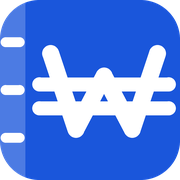
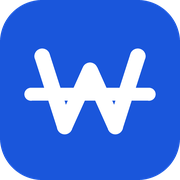
로고 마크를 한 줄짜리 ₩ 로 단순화
상단바 로고(22px)에서 마크가 파란 사각형 위의 흰 얼룩으로 보였다. 원인은
가로줄 두 개였다. 64px 기준 8 단위 간격은 22px 로 줄이면 2.7px 가 되고 획
굵기를 빼면 줄 사이 틈이 1px 도 안 남아 한 덩어리가 된다. 간격을 11까지
벌리고 획을 3.2 까지 얇혀 봤지만 22px 에서는 끝내 살아나지 않았다.
두 줄짜리 ₩ 는 28px 아래에서 성립하지 않는다.

크기별로 다른 그림을 쓰면 탭·로고·홈 화면 아이콘이 서로 다른 마크가 되므로,
작은 쪽에서 성립하는 형태 하나로 통일했다. 한 줄짜리 ₩ 는 128px 에서도
어색하지 않고 16px 에서도 형태가 버틴다.

가운데 봉우리도 함께 올렸다. 낮게 두면 가로줄에 파묻히고 바깥 획만 위로 솟아
32px 에서 글자가 아니라 벌레로 읽혔다.

diff --git a/tools/make-favicon.py b/tools/make-favicon.py
@@ -1,22 +1,28 @@
 """
-파비콘을 생성한다.  python tools/make-favicon.py
+파비콘과 로고 마크를 생성한다.  python tools/make-favicon.py
 
 만드는 것
-  web/favicon.svg          최신 브라우저용 (벡터, 항상 선명하다)
+  web/favicon.svg          브라우저 탭·상단바 로고 (벡터, 항상 선명하다)
   web/favicon.ico          구형 브라우저와 즐겨찾기용 (16·32·48 세 장을 담는다)
   web/apple-touch-icon.png 아이폰 홈 화면 추가용 (180px)
 
-디자인
-  '샐러리노트' 라서 노트와 돈을 같이 담는다. 다만 파비콘은 실제로 16px 로
-  보이는 물건이라 요소가 둘을 넘어가면 뭉개진다. 그래서
-    - 왼쪽 세로 띠  = 노트 제본. 폭이 좁아 작게 줄여도 형태가 남는다.
-    - 흰색 ₩       = 돈. 남는 폭을 최대한 차지하게 크게 그린다.
-  둘뿐이고 서로 겹치지 않아 16px 에서도 실루엣이 구분된다.
+디자인 — 두 번 덜어냈다
+  1차: '샐러리노트' 라서 노트 제본 띠와 고리까지 넣었다. 그런데 이 마크가 실제로
+  놓이는 자리는 브라우저 탭(16px)과 상단바 로고(22px)다. 그 크기에서 띠·고리·W·
+  가로줄 다섯 요소가 뭉쳐 파란 사각형 위의 흰 얼룩이 됐다. 노트 요소를 버렸다.
 
-  ★16px 만 가로줄을 하나로 줄인다.★
-  ₩ 의 가로줄 둘은 64px 기준 8.5 단위 떨어져 있는데, 16px 로 줄이면 간격이
-  2px 가 안 돼 두 줄이 한 덩어리로 뭉친다. 그러면 ₩ 가 아니라 얼룩으로 보인다.
-  글꼴이 크기별로 굵기를 달리 파는 것과 같은 이유다. 32px 이상은 원안 그대로다.
+  2차: ₩ 만 남겼는데도 22px 에서 뭉갰다. 원인은 가로줄 두 개였다. 64px 기준
+  8 단위 간격은 22px 로 줄이면 2.7px 가 되고, 획 굵기를 빼면 줄 사이 틈이 1px 도
+  안 남아 한 덩어리로 보인다. 간격을 11까지 벌리고 획을 3.2 까지 얇혀 봤지만
+  22px 에서는 끝내 살아나지 않았다. 두 줄짜리 ₩ 는 28px 아래에서 성립하지 않는다.
+
+  그래서 ★가로줄을 하나로 고정했다.★ 크기별로 다른 그림을 쓰면 탭과 로고와 홈
+  화면 아이콘이 서로 다른 마크가 되므로, 작은 쪽에서 성립하는 형태 하나로 통일한
+  것이다. 한 줄짜리 ₩ 는 128px 에서도 어색하지 않고 16px 에서도 형태가 버틴다.
+
+  ★가운데 봉우리는 바깥 획 높이 가까이 올린다.★ 낮게 두면 가로줄에 파묻히고
+  바깥 획만 위로 솟아 더듬이처럼 보인다. 실제로 그렇게 만들었다가 32px 에서
+  글자가 아니라 벌레로 읽혔다.
 
   좌표를 이 파일 한 곳에만 두고 SVG 와 PNG 를 같은 숫자로 그린다.
   따로 관리하면 한쪽만 고쳐져 아이콘 두 종류가 생긴다.
@@ -31,63 +37,32 @@ WEB = os.path.join(ROOT, "web")
 
 # ── 좌표 (64×64 기준) ────────────────────────────────────────────
 BOX = 64
-RADIUS = 14
+RADIUS = 15
 
-BLUE = (26, 86, 219)          # style.css 의 --accent 와 같은 값
-SPINE = (255, 255, 255, 56)   # 파랑 위에 흰색을 옅게 얹어 제본을 만든다
+BLUE = (26, 86, 219)   # style.css 의 --accent 와 같은 값
 WHITE = (255, 255, 255)
 
-SPINE_W = 9
+# ₩ 의 W. 가운데 봉우리(32, 25)가 바깥 끝(20)에 가깝다.
+W_PTS = [(15, 20), (23, 45), (32, 25), (41, 45), (49, 20)]
+W_STROKE = 5.5
 
-# 제본 고리. 32px 이상에서 노트로 읽히게 하는 요소다.
-# 16px 에서는 띠에 녹아 밝기만 살짝 올라가고 형태는 사라진다. 손해가 없어서
-# '큰 화면에서만 보이는 디테일' 로 넣는다.
-RING_X0, RING_X1 = 2.0, 7.0
-RING_Y = (15.0, 32.0, 49.0)
-RING_STROKE = 3.5
-
-# ₩ 의 W. 바깥에서 시작해 가운데를 찍고 다시 올라간다.
-W_PTS = [(18, 19), (27, 46), (37, 27), (47, 46), (56, 19)]
-W_STROKE = 6
-
-# ₩ 의 가로줄. 위아래 두 줄이 W 를 가로지른다.
-BAR_X0, BAR_X1 = 14, 60
-BAR_Y = (30.0, 38.5)
-BAR_STROKE = 5
-
-# 16px 전용. 줄 하나만 남기고 조금 굵힌다.
-BAR_Y_SMALL = (34.0,)
-BAR_STROKE_SMALL = 6
+# ₩ 의 가로줄. 하나뿐인 이유는 파일 상단 주석 참조.
+# W 보다 좌우로 조금 더 빼야 장식이 아니라 글자로 읽힌다.
+BAR_X0, BAR_X1 = 11, 53
+BAR_Y = 33.5
+BAR_STROKE = 4.6
 
 
 def svg() -> str:
-    """벡터 원본. 큰 화면에서는 이쪽이 쓰인다."""
+    """벡터 원본. 탭 아이콘과 상단바 로고가 모두 이 파일을 쓴다."""
     pts = " ".join(f"{x},{y}" for x, y in W_PTS)
-    rings = "\n".join(
-        f'    <line x1="{RING_X0}" y1="{y}" x2="{RING_X1}" y2="{y}" stroke="#fff"'
-        f' stroke-width="{RING_STROKE}" stroke-linecap="round" opacity="0.75"/>'
-        for y in RING_Y
-    )
-    bars = "\n".join(
-        f'    <line x1="{BAR_X0}" y1="{y}" x2="{BAR_X1}" y2="{y}"/>'
-        for y in BAR_Y
-    )
+    fill = "#%02x%02x%02x" % BLUE
     return f"""<svg xmlns="http://www.w3.org/2000/svg" viewBox="0 0 {BOX} {BOX}" role="img" aria-label="샐러리노트">
   <title>샐러리노트</title>
-  <defs>
-    <clipPath id="r">
-      <rect width="{BOX}" height="{BOX}" rx="{RADIUS}"/>
-    </clipPath>
-  </defs>
-  <g clip-path="url(#r)">
-    <rect width="{BOX}" height="{BOX}" fill="#{BLUE[0]:02x}{BLUE[1]:02x}{BLUE[2]:02x}"/>
-    <!-- 노트 제본 -->
-    <rect width="{SPINE_W}" height="{BOX}" fill="#fff" opacity="{SPINE[3] / 255:.3f}"/>
-{rings}
-  </g>
+  <rect width="{BOX}" height="{BOX}" rx="{RADIUS}" fill="{fill}"/>
   <g fill="none" stroke="#fff" stroke-linecap="round" stroke-linejoin="round">
     <polyline points="{pts}" stroke-width="{W_STROKE}"/>
-{bars}
+    <line x1="{BAR_X0}" y1="{BAR_Y}" x2="{BAR_X1}" y2="{BAR_Y}" stroke-width="{BAR_STROKE}"/>
   </g>
 </svg>
 """
@@ -101,47 +76,25 @@ def raster(size: int) -> Image.Image:
 
     img = Image.new("RGBA", (n, n), (0, 0, 0, 0))
     d = ImageDraw.Draw(img)
-
     d.rounded_rectangle([0, 0, n - 1, n - 1], radius=RADIUS * k, fill=BLUE + (255,))
 
-    # 제본 띠. 둥근 모서리 밖으로 삐져나가지 않게 배경 알파로 잘라낸다.
-    band = Image.new("RGBA", (n, n), (0, 0, 0, 0))
-    ImageDraw.Draw(band).rectangle([0, 0, SPINE_W * k, n], fill=SPINE)
-    band.putalpha(Image.composite(
-        band.getchannel("A"), Image.new("L", (n, n), 0), img.getchannel("A")))
-    img.alpha_composite(band)
-
-    rr = RING_STROKE * k / 2
-    for y in RING_Y:
-        d.line([(RING_X0 * k, y * k), (RING_X1 * k, y * k)],
-               fill=WHITE + (191,), width=round(RING_STROKE * k))
-        for x in (RING_X0, RING_X1):
-            d.ellipse([x * k - rr, y * k - rr, x * k + rr, y * k + rr], fill=WHITE + (191,))
-
-    # 작은 크기에서는 가로줄을 하나로 줄인다. 이유는 파일 상단 주석 참조.
-    bars = BAR_Y_SMALL if size <= 16 else BAR_Y
-    bar_w = BAR_STROKE_SMALL if size <= 16 else BAR_STROKE
-
-    d.line([(x * k, y * k) for x, y in W_PTS],
-           fill=WHITE + (255,), width=round(W_STROKE * k), joint="curve")
-    # PIL 은 선 끝을 둥글게 못 깎아서 꼭짓점에 원을 직접 얹는다.
-    r = W_STROKE * k / 2
-    for x, y in W_PTS:
-        d.ellipse([x * k - r, y * k - r, x * k + r, y * k + r], fill=WHITE + (255,))
-
-    r = bar_w * k / 2
-    for y in bars:
-        d.line([(BAR_X0 * k, y * k), (BAR_X1 * k, y * k)],
-               fill=WHITE + (255,), width=round(bar_w * k))
-        for x in (BAR_X0, BAR_X1):
+    def stroke(points, width):
+        """PIL 은 선 끝을 둥글게 못 깎아서 꼭짓점마다 원을 얹어 흉내낸다."""
+        d.line([(x * k, y * k) for x, y in points],
+               fill=WHITE + (255,), width=round(width * k), joint="curve")
+        r = width * k / 2
+        for x, y in points:
             d.ellipse([x * k - r, y * k - r, x * k + r, y * k + r], fill=WHITE + (255,))
+
+    stroke(W_PTS, W_STROKE)
+    stroke([(BAR_X0, BAR_Y), (BAR_X1, BAR_Y)], BAR_STROKE)
 
     return img.resize((size, size), Image.LANCZOS)
 
 
 def main() -> None:
-    p = os.path.join(WEB, "favicon.svg")
-    io.open(p, "w", encoding="utf-8", newline="\n").write(svg())
+    io.open(os.path.join(WEB, "favicon.svg"), "w",
+            encoding="utf-8", newline="\n").write(svg())
     print("favicon.svg")
 
     # .ico 는 여러 크기를 한 파일에 담는다. 브라우저가 상황에 맞는 걸 고른다.
@@ -157,11 +110,14 @@ def main() -> None:
     # 눈으로 확인할 미리보기. 배포에는 넣지 않는다.
     prev = os.environ.get("FAVICON_PREVIEW")
     if prev:
-        strip = Image.new("RGBA", (16 + 32 + 64 + 128 + 40, 128), (255, 255, 255, 255))
-        x = 0
-        for s in (16, 32, 64, 128):
-            strip.alpha_composite(raster(s), (x, 128 - s))
-            x += s + 10
+        shown = (16, 22, 32, 64, 128)
+        pad = 12
+        w = sum(shown) + pad * (len(shown) + 1)
+        strip = Image.new("RGBA", (w, 128 + pad * 2), (255, 255, 255, 255))
+        x = pad
+        for sz in shown:
+            strip.alpha_composite(raster(sz), (x, pad + 128 - sz))
+            x += sz + pad
         strip.save(prev)
         print("미리보기:", prev)
 
